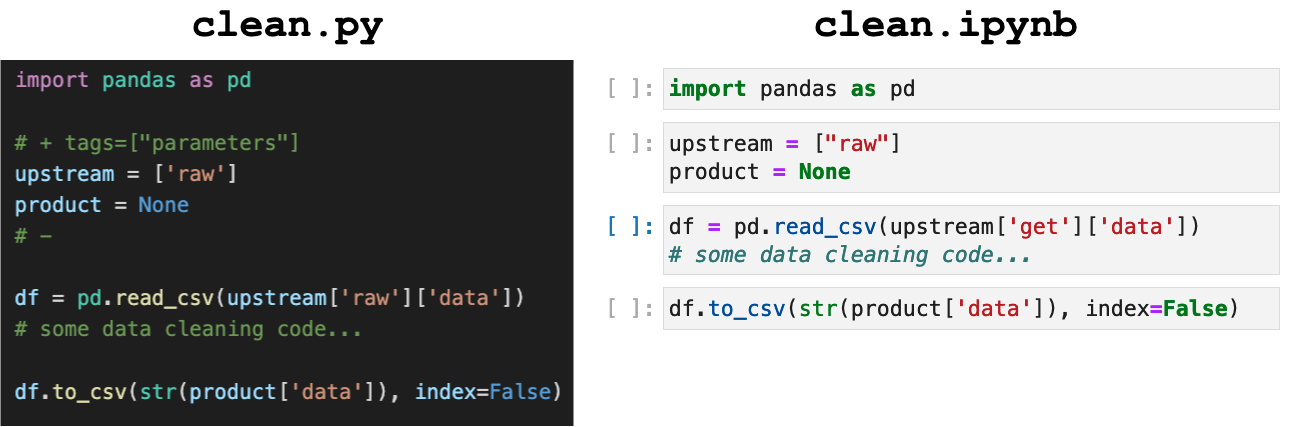
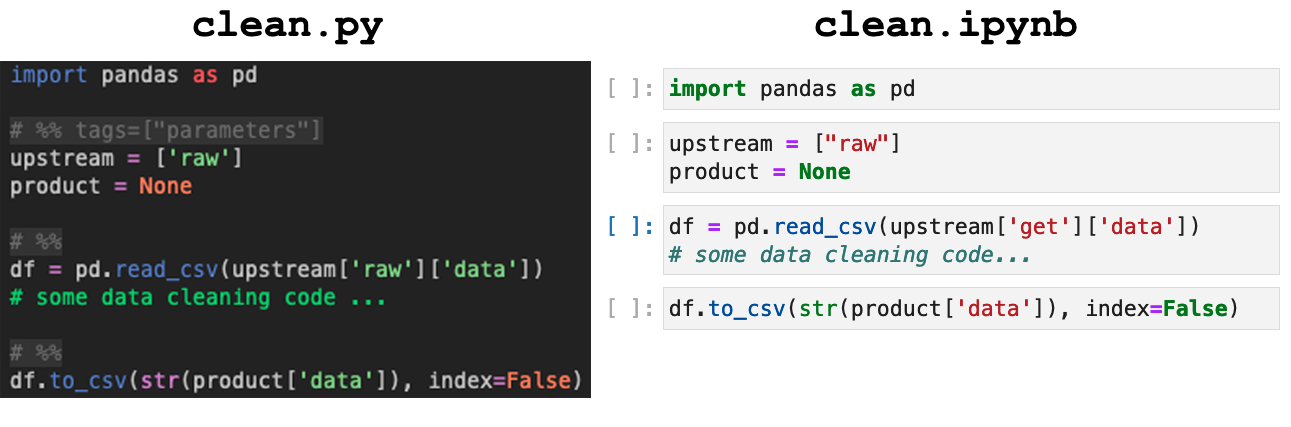
updating documantation to reflect new default format percent #564

Changed region(s): [[0.0, 0.1218, 0.4648, 1.0], [0.0, 0.274, 0.2479, 0.5785], [0.0, 0.1522, 0.2169, 0.2131]]

diff --git a/doc/get-started/basic-concepts.rst b/doc/get-started/basic-concepts.rst
@@ -110,14 +110,14 @@ as ``.py`` (script) and as a ``.ipynb`` (notebook) file:
    :target: /_static/img/basics/py-and-ipynb.png
    :alt: py-and-ipynb
 
-Note that the ``.py`` script has some ``# +`` comments. Such markers allow us
+Note that the ``.py`` script has some ``# %%`` comments. Such markers allow us
 to delimit code cells and render the ``.py`` file as a notebook. 
 
 .. note::
    
-   The ``# +`` is just one way of representing ``.py`` as notebooks. Ploomber
-   uses jupytext to perform the conversion, so other popular formats such as the
-   "percent" (``# %%``) format work. Editors such as VS Code, Spyder, and
+   The ``# %%`` is one way of representing ``.py`` as notebooks. Ploomber
+   uses jupytext to perform the conversion, other formats such as the
+   "light" (``# +``) format work too. Editors such as VS Code, Spyder, and
    PyCharm support the "percent" format.
 
 
@@ -146,10 +146,9 @@ editing. If a script/notebook has no dependencies, set ``upstream = None``.
     :class: text-editor
     :name: clean-py
 
-    # + tags=["parameters"]
+    # %% tags=["parameters"]
     upstream = ['raw'] # this means: execute raw.py, then clean.py
     product = None
-    # -
 
 
 .. important::
@@ -160,7 +159,7 @@ editing. If a script/notebook has no dependencies, set ``upstream = None``.
 
 .. note::
    
-   the ``# +`` and ``# -`` markers only apply to scripts.
+   the ``# %%`` markers only apply to scripts.
    `Click here <https://docs.ploomber.io/en/latest/user-guide/faq_index.html#parameterizing-notebooks>`_
    for information on adding tags to ``.ipynb`` files.
 
@@ -175,14 +174,15 @@ Let's review the contents a sample ``clean.py`` file:
 
    import pandas as pd
 
-   # + tags=["parameters"]
+   # %% tags=["parameters"]
    upstream = ["raw"]
    product = None
-   # -
 
+   # %%
    df = pd.read_csv(upstream['get']['data'])
    # some data cleaning code...
 
+   # %%
    # store clean data
    df.to_csv(str(product['data']), index=False)
 

diff --git a/doc/user-guide/faq/parameterize.rst b/doc/user-guide/faq/parameterize.rst
@@ -11,7 +11,17 @@ the ``upstream`` parameter, which contains a list of task dependencies.
 Parameterizing ``.py`` files
 *****************************
 
-For ``.py`` files, include the ``# + tags=["parameters]`` comment before declaring your default variables or parameters.
+For ``.py`` files, include the ``# %% tags=["parameters]`` comment before declaring your default variables or parameters.
+
+
+.. code-block:: python
+    :class: text-editor
+
+    # %% tags=["parameters"]
+    upstream = None
+    product = None
+
+Note that Ploomber is compatible with all ``.py`` formats supported by jupytext. Another common alternative is the light format.
 The ``# +`` marker denotes the beginning of a cell, and ``# -`` marker indicates the end of the cell. Your cell should look like this:
 
 
@@ -22,17 +32,6 @@ The ``# +`` marker denotes the beginning of a cell, and ``# -`` marker indicates
     upstream = None
     product = None
     # -
-
-
-Note that Ploomber is compatible with all ``.py`` formats supported by jupytext. Another common alternative is the percent format:
-
-
-.. code-block:: python
-    :class: text-editor
-
-    # %% tags=["parameters"]
-    upstream = None
-    product = None
 
 If you're using another format, check out `jupytext's documentation <https://jupytext.readthedocs.io/en/latest/formats.html>`_.
 

diff --git a/doc/api/spec.rst b/doc/api/spec.rst
@@ -635,10 +635,10 @@ Python/R scripts/notebooks receive a ``product`` variable in the
 .. code-block:: py
     :class: text-editor
 
-    # + tags=["parameters"]
+    # %% tags=["parameters"]
     product = None
 
-    # + tags=["injected-parameters"]
+    # %% tags=["injected-parameters"]
     product = '/path/to/output/data.csv'
 
     # your code...
@@ -696,10 +696,10 @@ Python/R scripts/notebooks receive them in the "injected-parameters" cell:
 .. code-block:: py
     :class: text-editor
 
-    # + tags=["parameters"]
+    # %% tags=["parameters"]
     my_param = None
 
-    # + tags=["injected-parameters"]
+    # %% tags=["injected-parameters"]
     my_param = 42
 
     # your code...

diff --git a/doc/user-guide/r-support.rst b/doc/user-guide/r-support.rst
@@ -23,9 +23,9 @@ If you prefer, you can also use plain R scripts:
     :class: text-editor
     :name: task-R
 
-    # + tags=["parameters"]
+    # %% tags=["parameters"]
     upstream = list('one_task', 'another_task')
-    # -
+    #   
 
 
 If your script doesn't have dependencies: ``upstream = NULL``

diff --git a/doc/user-guide/spec-vs-python.rst b/doc/user-guide/spec-vs-python.rst
@@ -60,10 +60,10 @@ scripts support this, for example:
     :class: text-editor
     :name: task-py
 
-    # + tags=["parameters"]
+    # %% tags=["parameters"]
     product = {'nb': 'output.ipynb', 'data': 'output.csv'}
     upstream = ['a_task']
-    # -
+    # 
 
     # continues...
 
